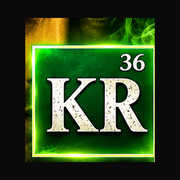
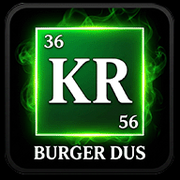
KR BURGER v20: iconos PWA nuevos del Director y derivados consistentes

diff --git a/sw.js b/sw.js
@@ -1,10 +1,10 @@
 'use strict';
-/* KR BURGER & PIZZA — service worker sin dependencias (v19).
+/* KR BURGER & PIZZA — service worker sin dependencias (v20).
    Shell (HTML/CSS/JS/manifest) network-first: al recargar siempre se ve la última versión.
    Imágenes y fuentes cache-first (rápidas, offline); ./data/ network-first.
    Nada bajo /app/ se cachea a propósito (admin y scripts del taller).
    Al cambiar un asset estático, subir VERSION para limpiar las cachés viejas. */
-const VERSION = 'v19';
+const VERSION = 'v20';
 const CACHE_ESTATICOS = `kr-burger-estaticos-${VERSION}`;
 const CACHE_DATOS = `kr-burger-datos-${VERSION}`;
 const ESTATICOS = [
